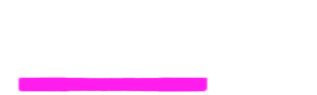
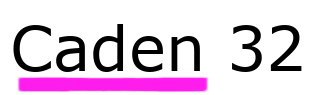
up to date

Changed region(s): [[0.0284, 0.2526, 0.653, 0.7579], [0.7098, 0.2526, 0.9653, 0.7579]]

diff --git a/global.css b/global.css
@@ -1,0 +1,3 @@
+@tailwind base;
+@tailwind components;
+@tailwind utilities;

diff --git a/src/pages/pages/1.md b/src/pages/pages/1.md
@@ -1,0 +1,14 @@
+---
+layout: ../../layouts/BaseLayout.astro
+title: Blog Post Test
+author: Caden
+description: My first blog post!
+---
+
+## bro
+
+This is a post written in Markdown.
+
+
+
+# TL;DR
